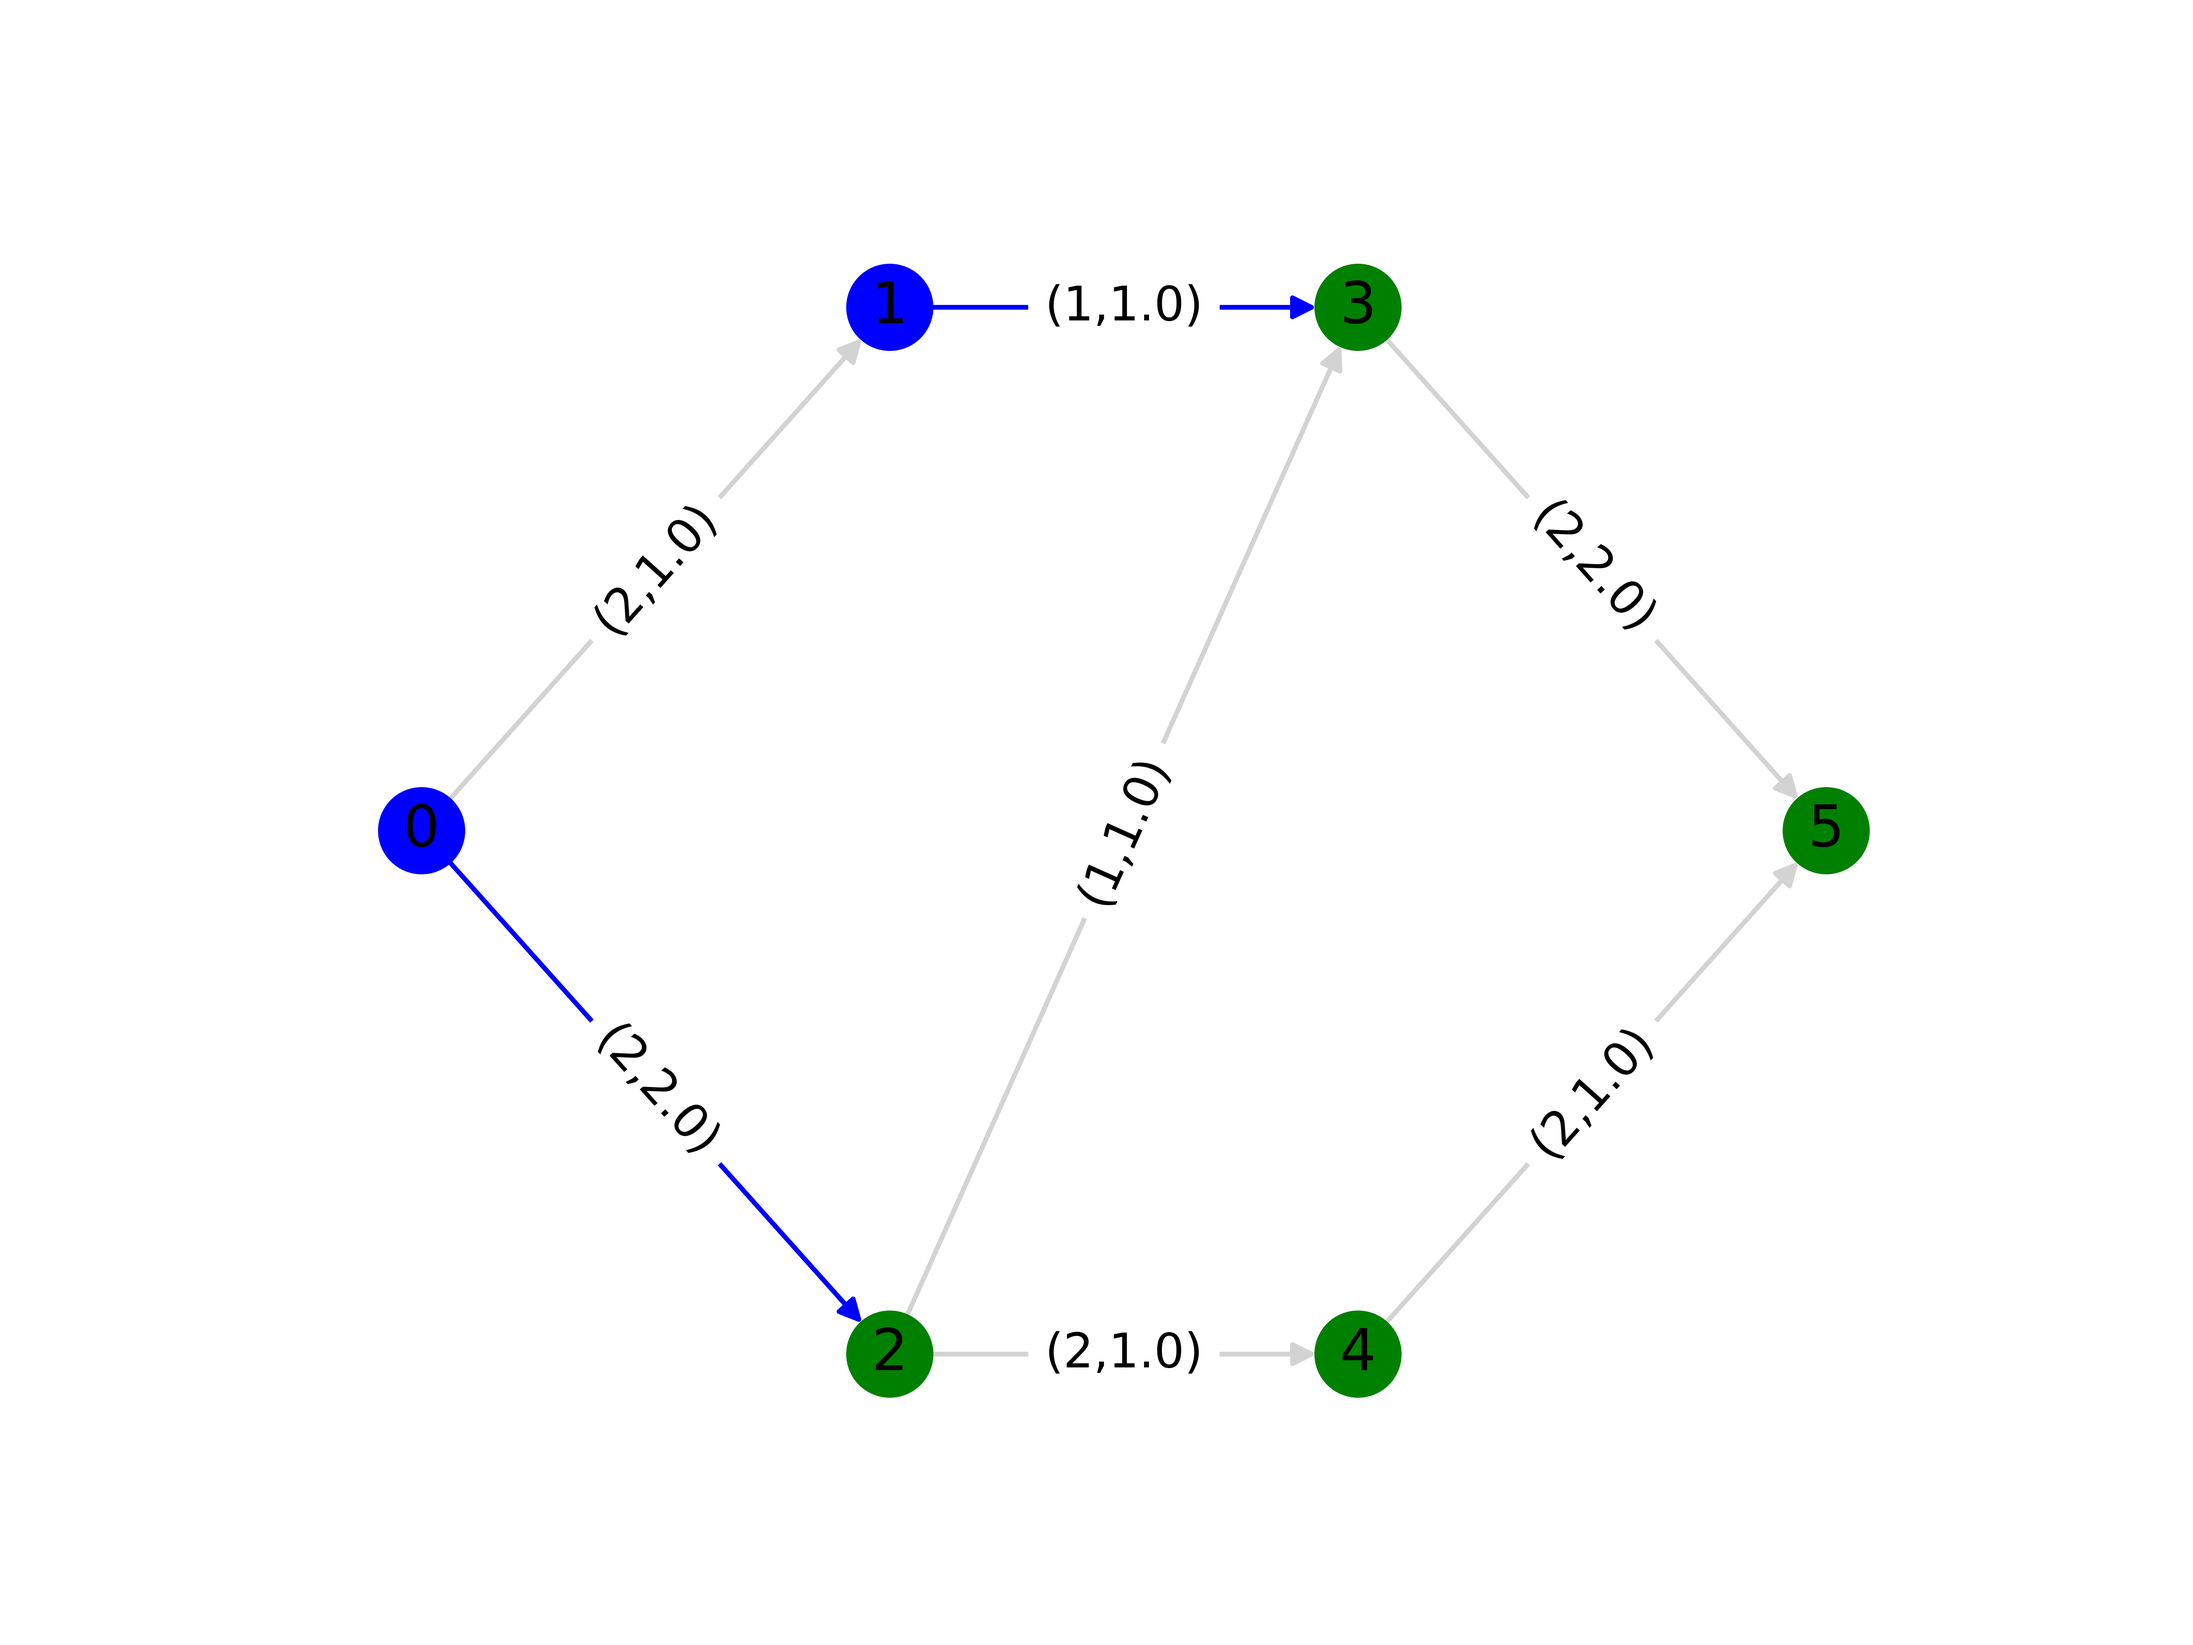
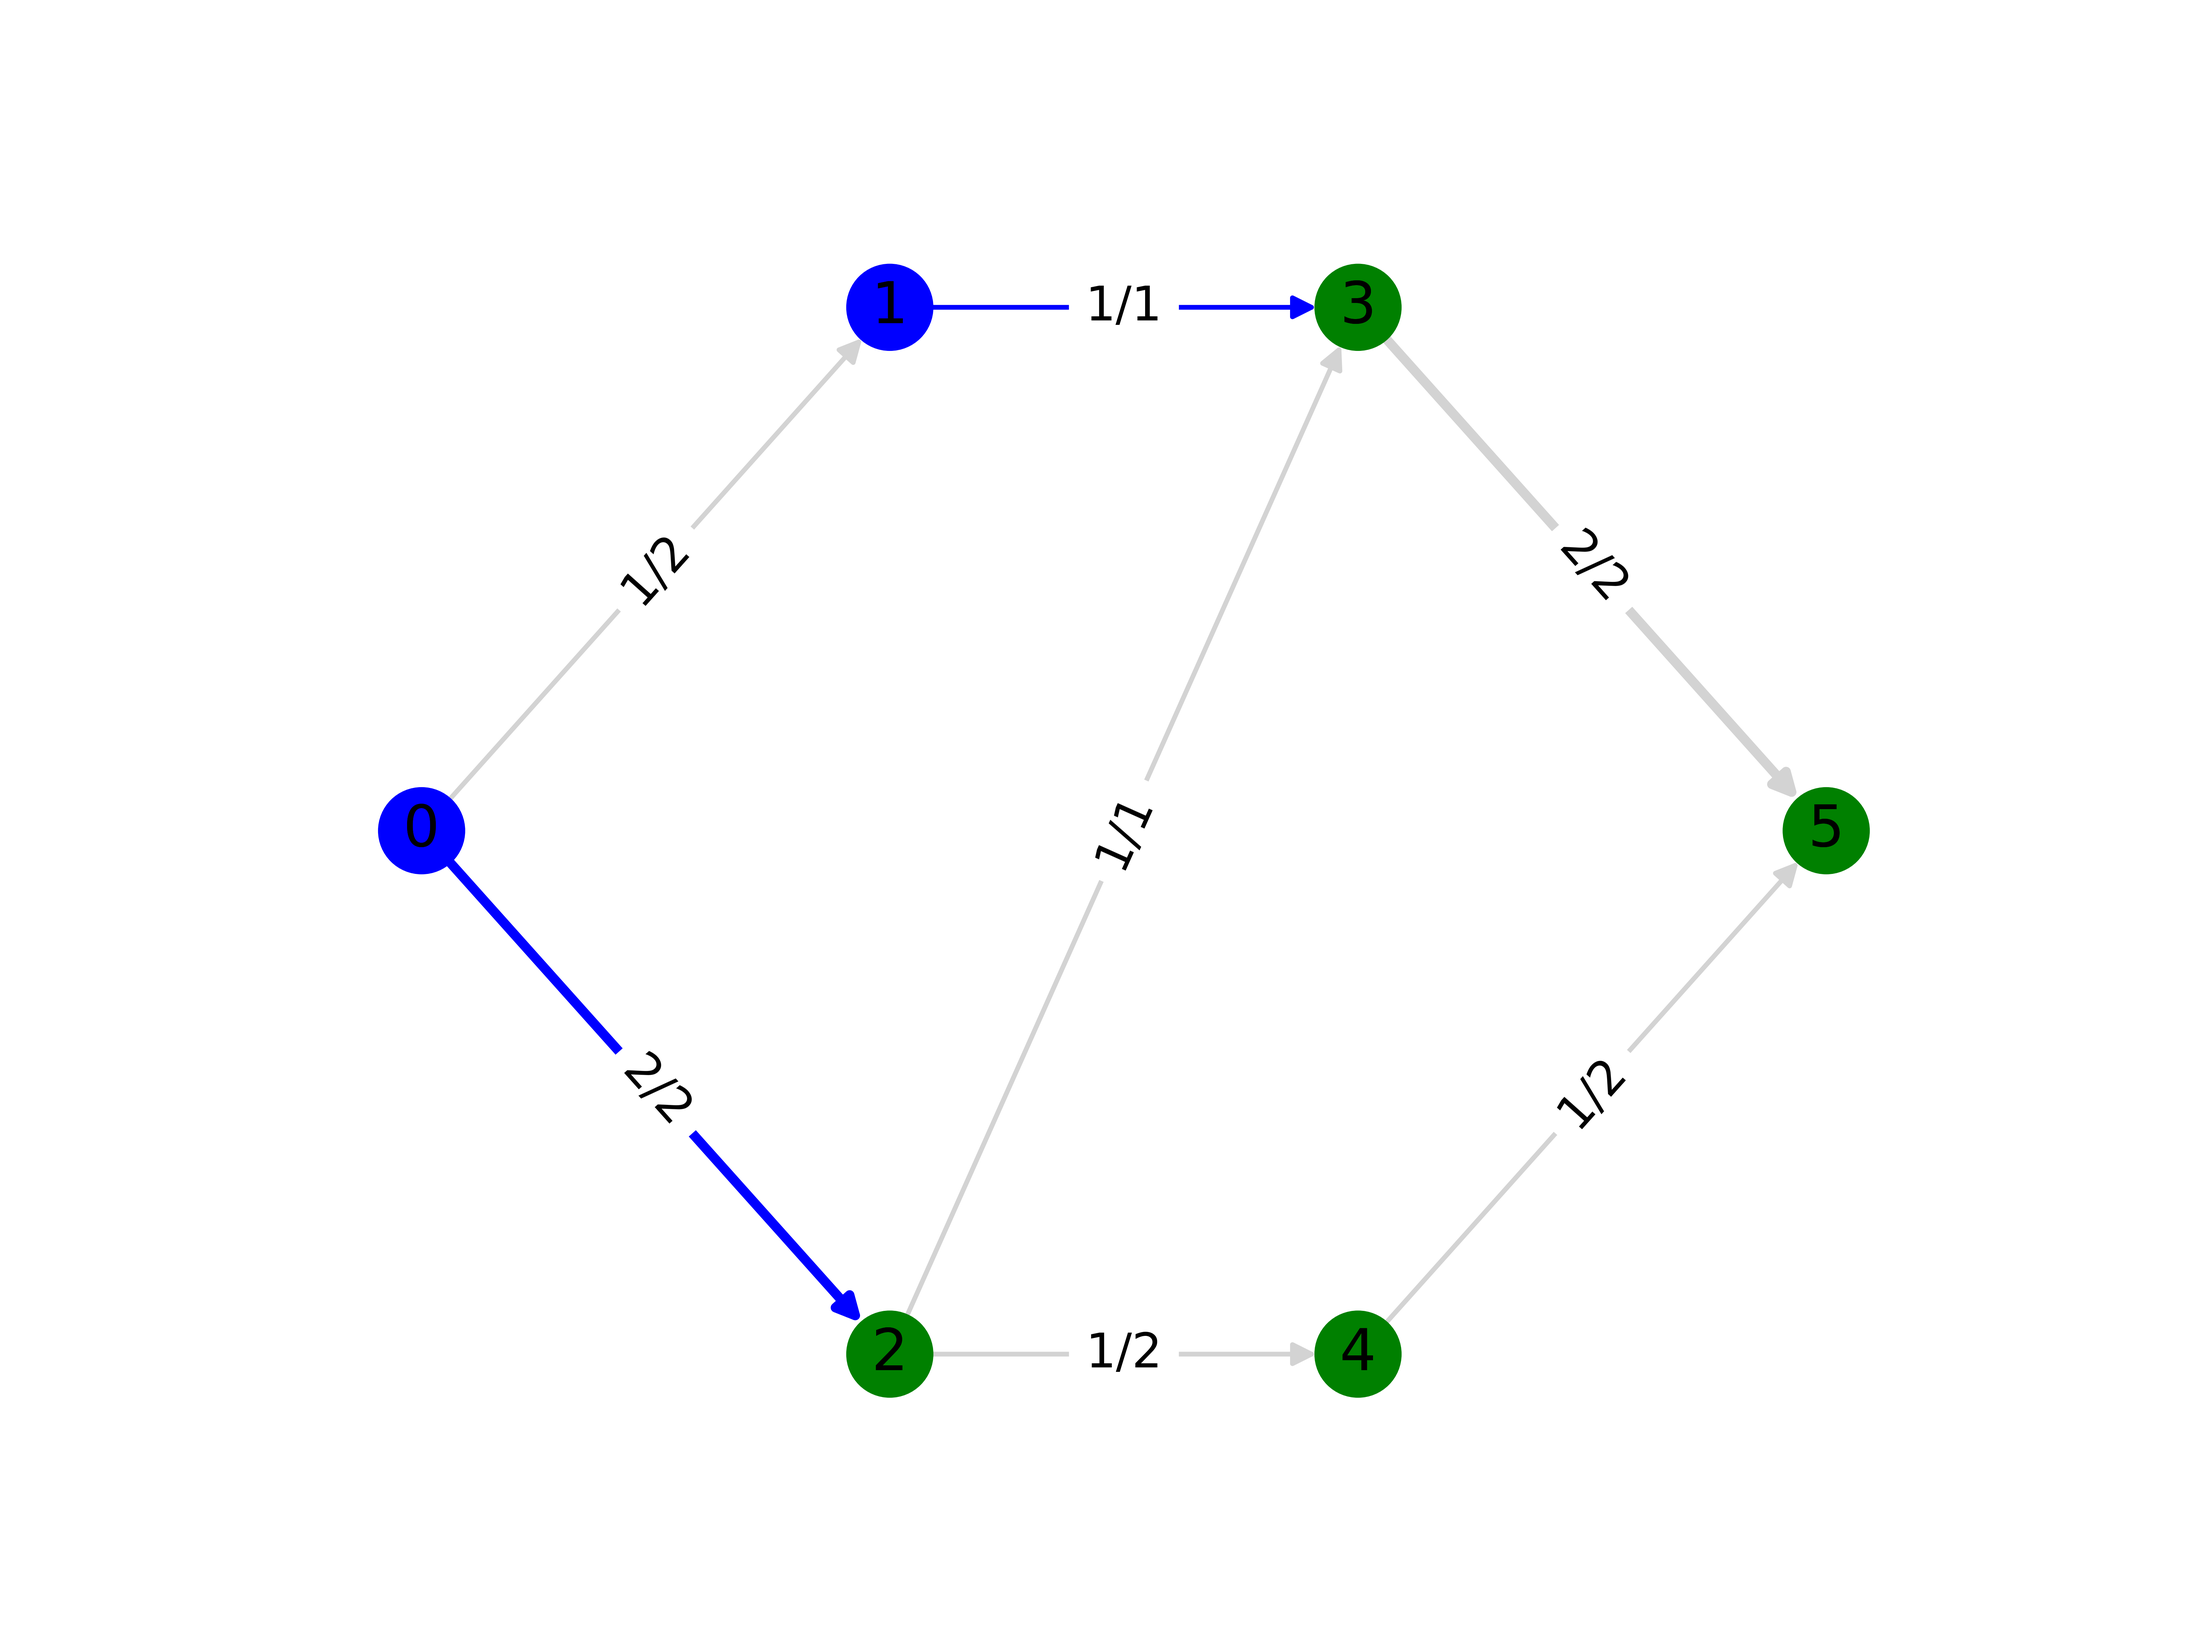
Update docs

diff --git a/src/gurobi_optimods/min_cut.py b/src/gurobi_optimods/min_cut.py
@@ -170,7 +170,7 @@ def _min_cut_scipy(G, source, sink, create_env):
     ones = np.ones(from_arc.shape)
     data = np.column_stack((ones * -1.0, ones)).reshape(-1, order="C")
 
-    A = sp.csc_array((data, indices, indptr))
+    A = sp.csc_matrix((data, indices, indptr))
 
     logger.info(
         f"Solving min-cut problem with {A.shape[0]} nodes and " f"{A.shape[1]-1} edges"
@@ -180,7 +180,6 @@ def _min_cut_scipy(G, source, sink, create_env):
         # Solve max-flow problem
         model.ModelSense = GRB.MAXIMIZE
         x = model.addMVar(A.shape[1], lb=0, obj=costs, name="x")
-        model.update()
         cap = model.addConstr(x <= capacities, name="capacity")
         model.addMConstr(A, x, GRB.EQUAL, demands, name="flow")
         model.optimize()

diff --git a/docs/source/mods/max-flow-min-cut.rst b/docs/source/mods/max-flow-min-cut.rst
@@ -60,6 +60,11 @@ can be stated as follows:
     formulation. The minimum cut is found by solving the maximum flow problem
     and extracting the constraint dual values.
 
+    Particularly, we can get the edges in the cutset by checking the non-zero
+    dual values of the capacity constraints (the last constraints), with these,
+    we can find the partions by checking the predecessors and successors
+    vertices of these edges.
+
 |
 
 Code and Inputs
@@ -143,8 +148,10 @@ An example of these inputs with their respective requirements is shown below.
 Solution
 --------
 
-Depending on the input of choice, the solution also comes with different
-formats.
+Maximum Flow
+^^^^^^^^^^^^
+
+Let us use the data to solve the maximum flow problem.
 
 .. tabs::
 
@@ -167,25 +174,11 @@ formats.
           3       5         2.0
           4       5         1.0
           Name: flow, dtype: float64
-          >>> from gurobi_optimods.min_cut import min_cut
-          >>> res = min_cut(edge_data, 0, 5, verbose=False)
-          >>> res
-          MinCutResult(cut_value=3.0, partition=({0, 1}, {2, 3, 4, 5}), cutset={(0, 2), (1, 3)})
-          >>> res.cut_value
-          3.0
-          >>> res.partition
-          ({0, 1}, {2, 3, 4, 5})
-          >>> res.cutset
-          {(0, 2), (1, 3)}
 
       The ``max_flow`` function returns the cost of the solution as well
       as ``pd.Series`` with the flow per edge. Similarly as the input
       DataFrame the resulting series is indexed by ``source`` and ``target``.
       In this case, the resulting maximum flow has value 3.
-
-      The ``min_cut`` function returns a ``MinCutResult`` which contains the
-      cutset value, the partition of the nodes and the edges in the cutset.
-
 
   .. group-tab:: NetworkX
 
@@ -200,22 +193,9 @@ formats.
           <class 'networkx.classes.digraph.DiGraph'>
           >>> list(sol.edges(data=True))
           [(0, 1, {'flow': 1.0}), (0, 2, {'flow': 2.0}), (1, 3, {'flow': 1.0}), (2, 3, {'flow': 1.0}), (2, 4, {'flow': 1.0}), (3, 5, {'flow': 2.0}), (4, 5, {'flow': 1.0})]
-          >>> from gurobi_optimods.min_cut import min_cut
-          >>> res = min_cut(G, 0, 5, verbose=False)
-          >>> res
-          MinCutResult(cut_value=3.0, partition=({0, 1}, {2, 3, 4, 5}), cutset={(0, 2), (1, 3)})
-          >>> res.cut_value
-          3.0
-          >>> res.partition
-          ({0, 1}, {2, 3, 4, 5})
-          >>> res.cutset
-          {(0, 2), (1, 3)}
 
       The ``max_flow`` function returns the cost of the solution
       as well as a dictionary indexed by edge with the non-zero flow.
-
-      The ``min_cut`` function returns a ``MinCutResult`` which contains the
-      cutset value, the partition of the nodes and the edges in the cutset.
 
   .. group-tab:: scipy.sparse
 
@@ -236,6 +216,53 @@ formats.
             (2, 4)    2.0
             (3, 5)    1.0
             (4, 5)    2.0
+
+      The ``max_flow`` function returns the value of the maximum flow as well a
+      sparse matrix with the amount of non-zero flow in each edge in the
+      solution.
+
+The solution for this example is shown in the figure below. The edge labels
+denote the edge capacity and resulting flow: :math:`x^*_{ij}/B_{ij}`. All
+edges in the maximum flow solution carry some flow, totalling at 3.0 at the
+sink.
+
+.. image:: figures/max-flow.png
+  :width: 600
+  :alt: Maximum Flow Solution.
+  :align: center
+
+Minimum Cut
+^^^^^^^^^^^
+
+Let us use the data to solve the minimum cut problem.
+
+.. tabs::
+
+  .. group-tab:: pandas
+
+      .. doctest:: pandas
+          :options: +NORMALIZE_WHITESPACE
+
+          >>> from gurobi_optimods.min_cut import min_cut
+          >>> res = min_cut(edge_data, 0, 5, verbose=False)
+          >>> res
+          MinCutResult(cut_value=3.0, partition=({0, 1}, {2, 3, 4, 5}), cutset={(0, 2), (1, 3)})
+          >>> res.cut_value
+          3.0
+          >>> res.partition
+          ({0, 1}, {2, 3, 4, 5})
+          >>> res.cutset
+          {(0, 2), (1, 3)}
+
+      The ``min_cut`` function returns a ``MinCutResult`` which contains the
+      cutset value, the partition of the nodes and the edges in the cutset.
+
+
+  .. group-tab:: NetworkX
+
+      .. doctest:: networkx
+          :options: +NORMALIZE_WHITESPACE
+
           >>> from gurobi_optimods.min_cut import min_cut
           >>> res = min_cut(G, 0, 5, verbose=False)
           >>> res
@@ -247,21 +274,39 @@ formats.
           >>> res.cutset
           {(0, 2), (1, 3)}
 
-      The ``max_flow`` function returns the flow of the solution as
-      well as a ``sp.sparray`` with the edges where the data is the amount of
-      non-zero flow in the solution.
+      The ``min_cut`` function returns a ``MinCutResult`` which contains the
+      cutset value, the partition of the nodes and the edges in the cutset.
+
+  .. group-tab:: scipy.sparse
+
+      .. doctest:: scipy
+          :options: +NORMALIZE_WHITESPACE
+
+          >>> from gurobi_optimods.min_cut import min_cut
+          >>> res = min_cut(G, 0, 5, verbose=False)
+          >>> res
+          MinCutResult(cut_value=3.0, partition=({0, 1}, {2, 3, 4, 5}), cutset={(0, 2), (1, 3)})
+          >>> res.cut_value
+          3.0
+          >>> res.partition
+          ({0, 1}, {2, 3, 4, 5})
+          >>> res.cutset
+          {(0, 2), (1, 3)}
 
       The ``min_cut`` function returns a ``MinCutResult`` which contains the
       cutset value, the partition of the nodes and the edges in the cutset.
 
-The solution for this example is shown in the figure below. The edge labels
-denote the edge capacity and resulting flow: :math:`(B_{ij}, x^*_{ij})`. All
-edges in the maximum flow solution carry some flow, totalling at 3.0 at the
-sink. The cutset from the minimum solution is shown with the edges in blue, and
-the nodes in the partitions are shown in blue and in green.
+The solution for the minimum cut problem is shown in the figure below. The edges
+in the cutset are shown in blue (with their capacity values shown), and the
+nodes in the partitions are shown in blue (nodes 0 and 1) and in green (nodes 2,
+3, 4 and 5). The capacity of the minimum cut is :math:`B_{0,2}+B_{1,3}=2+1=3`
+which is also the value of the maximum flow. We can also see that if we remove
+the blue edges we would be left with a disconnected graph with the two
+partitions.
 
-.. image:: figures/max-flow-min-cut.png
+.. image:: figures/min-cut.png
   :width: 600
-  :alt: Sample network.
+  :alt: Minimum Cut solution.
+  :align: center
 
 .. footbibliography::
